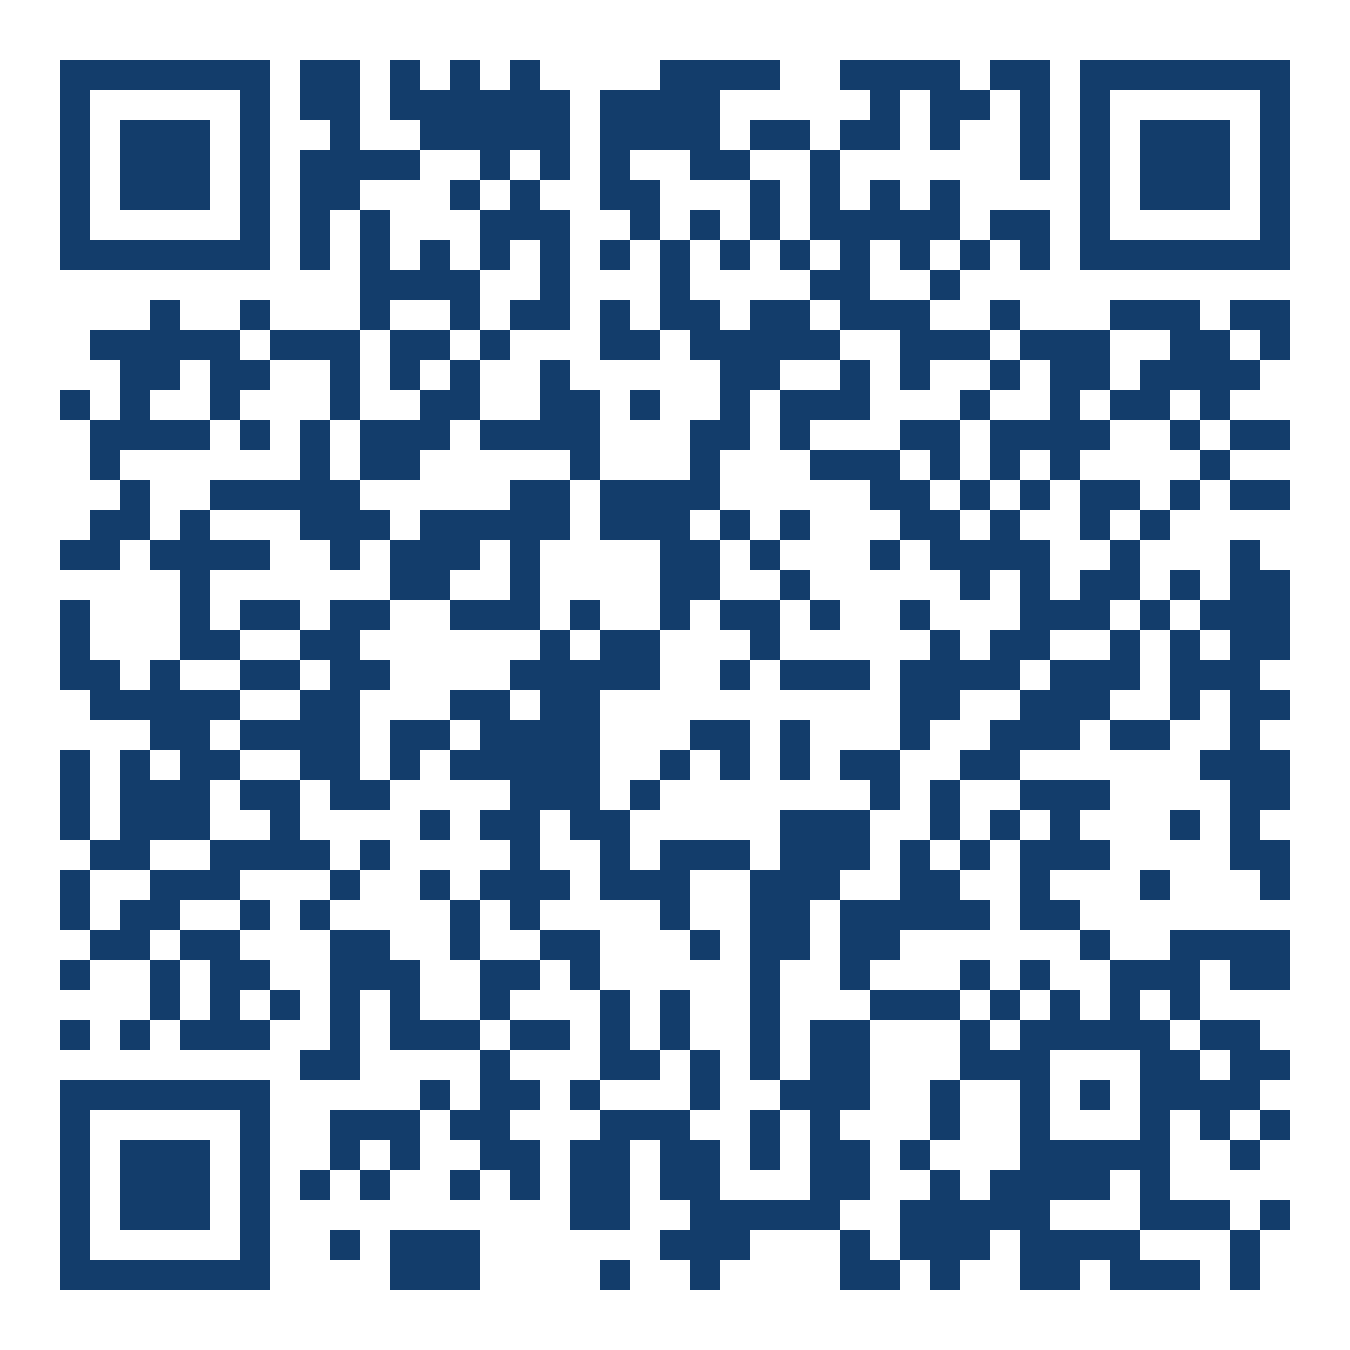
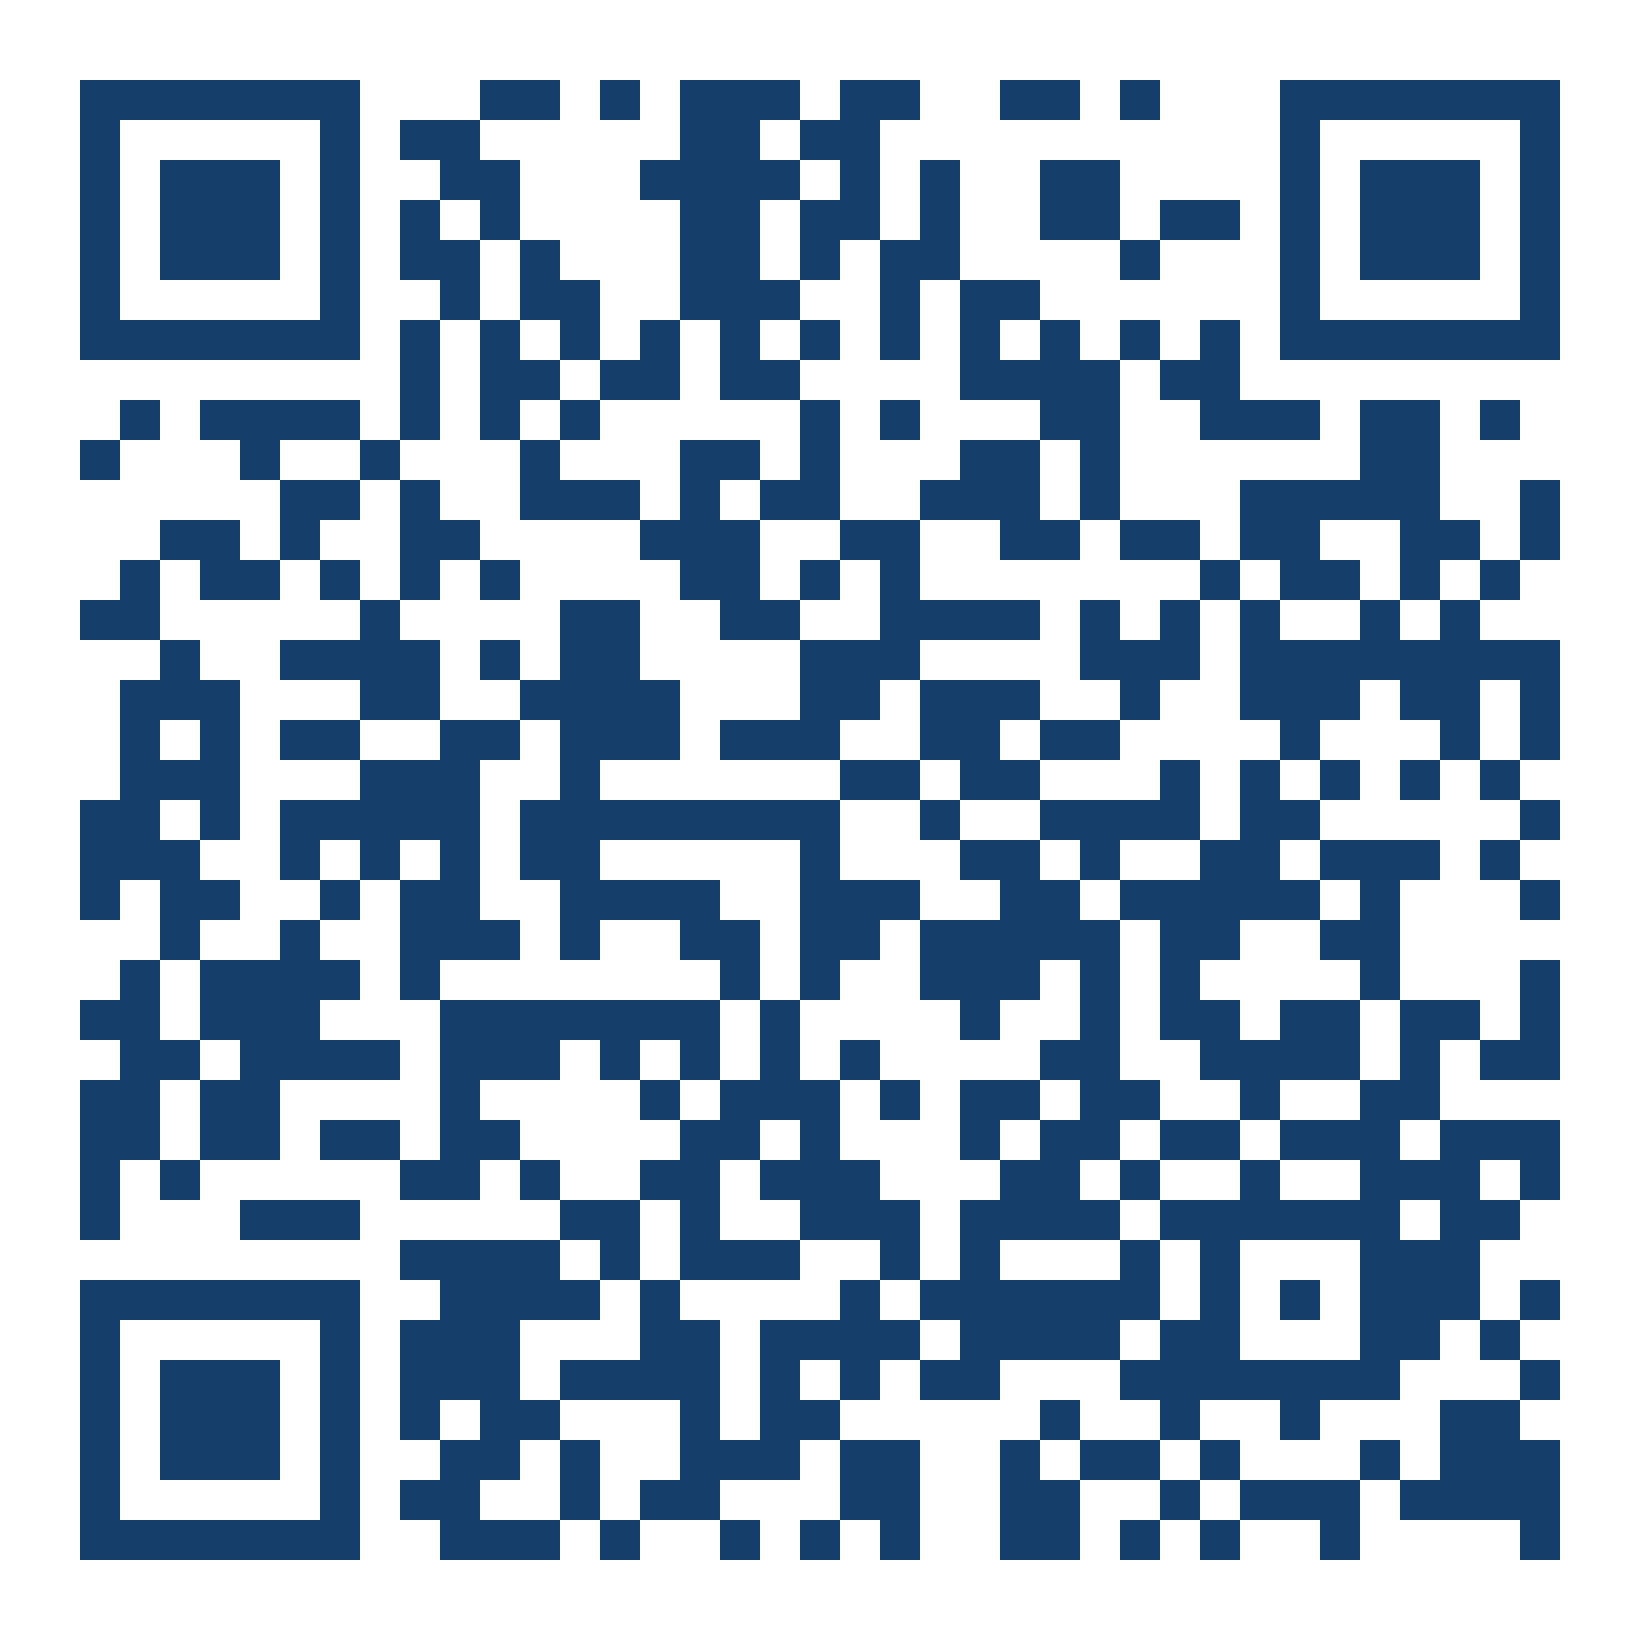
QR de los carteles y README con el dominio nuevo proyectossecundarialxiii.com.ar
Claude-Session: https://claude.ai/code/session_01Piu8mULpbu1xk8sxH92iMM

diff --git a/README.md b/README.md
@@ -2,6 +2,6 @@
 
 Plano interactivo del sector taller del Colegio León XIII para la ExpoLeón 2026: qué curso expone en cada espacio, cómo llegar entre las plantas del taller y el 2.º piso (Laboratorio de Química) y vistas 360°.
 
-Sitio: https://juansolisa.github.io/expoleon-2026/
+Sitio: https://proyectossecundarialxiii.com.ar/
 
 Cada espacio tiene su propio enlace para los códigos QR, por ejemplo `#hall` marca "Estás acá" en el hall del taller.
